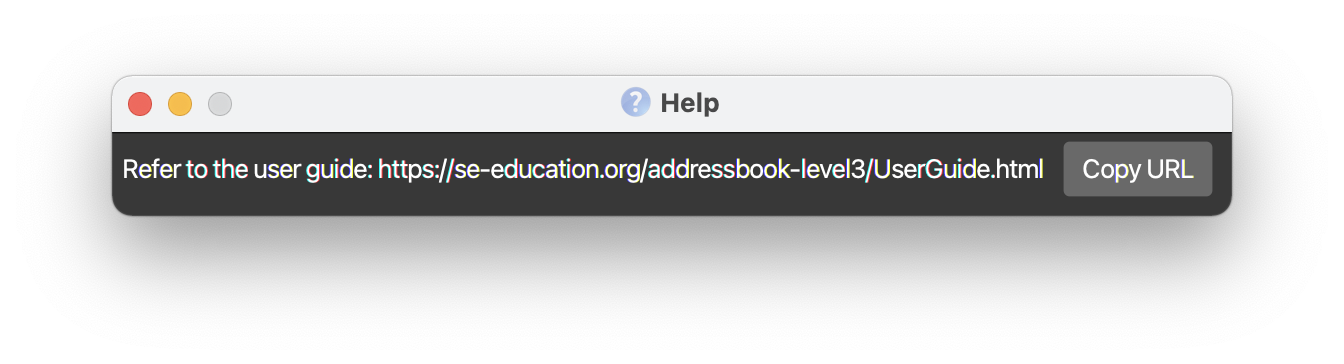
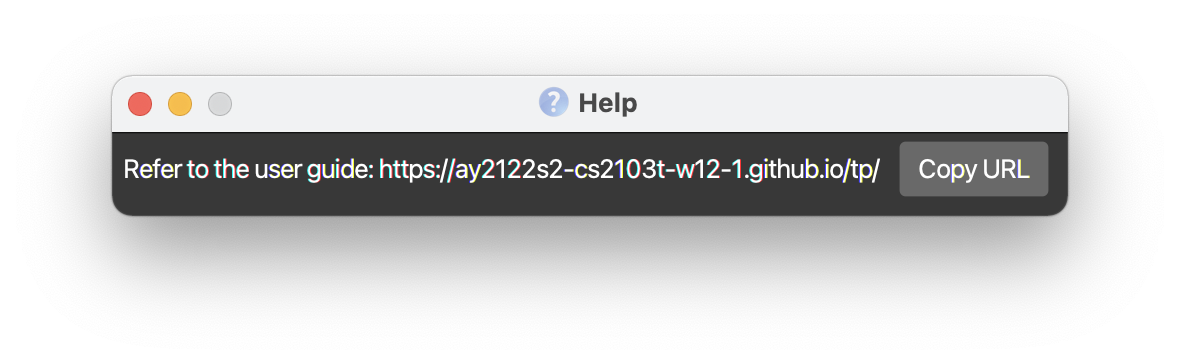
change the help window image to display the correct link to the user guide

Changed region(s): [[0.061, 0.3626, 0.9153, 0.6044], [0.0915, 0.2418, 0.2136, 0.3324], [0.4576, 0.2418, 0.5492, 0.3324]]

diff --git a/docs/UserGuide.md b/docs/UserGuide.md
@@ -95,11 +95,15 @@ In **red**, is the input box for you to enter in your commands. Simply click on 
 In **green**, is the feedback box given for your command.
 
 An invalid or wrong command entered will display some error messages for you:
+<br>
+
 ![invalid add command result](images/UIexplanation/invalid-add.png)
 
 <br>
 
 A correct command will produce feedback to you about what has been done. In this case, the command `delete 3` was done:
+<br>
+
 ![valid delete command result](images/UIexplanation/valid-delete.png)
 
 <br>
